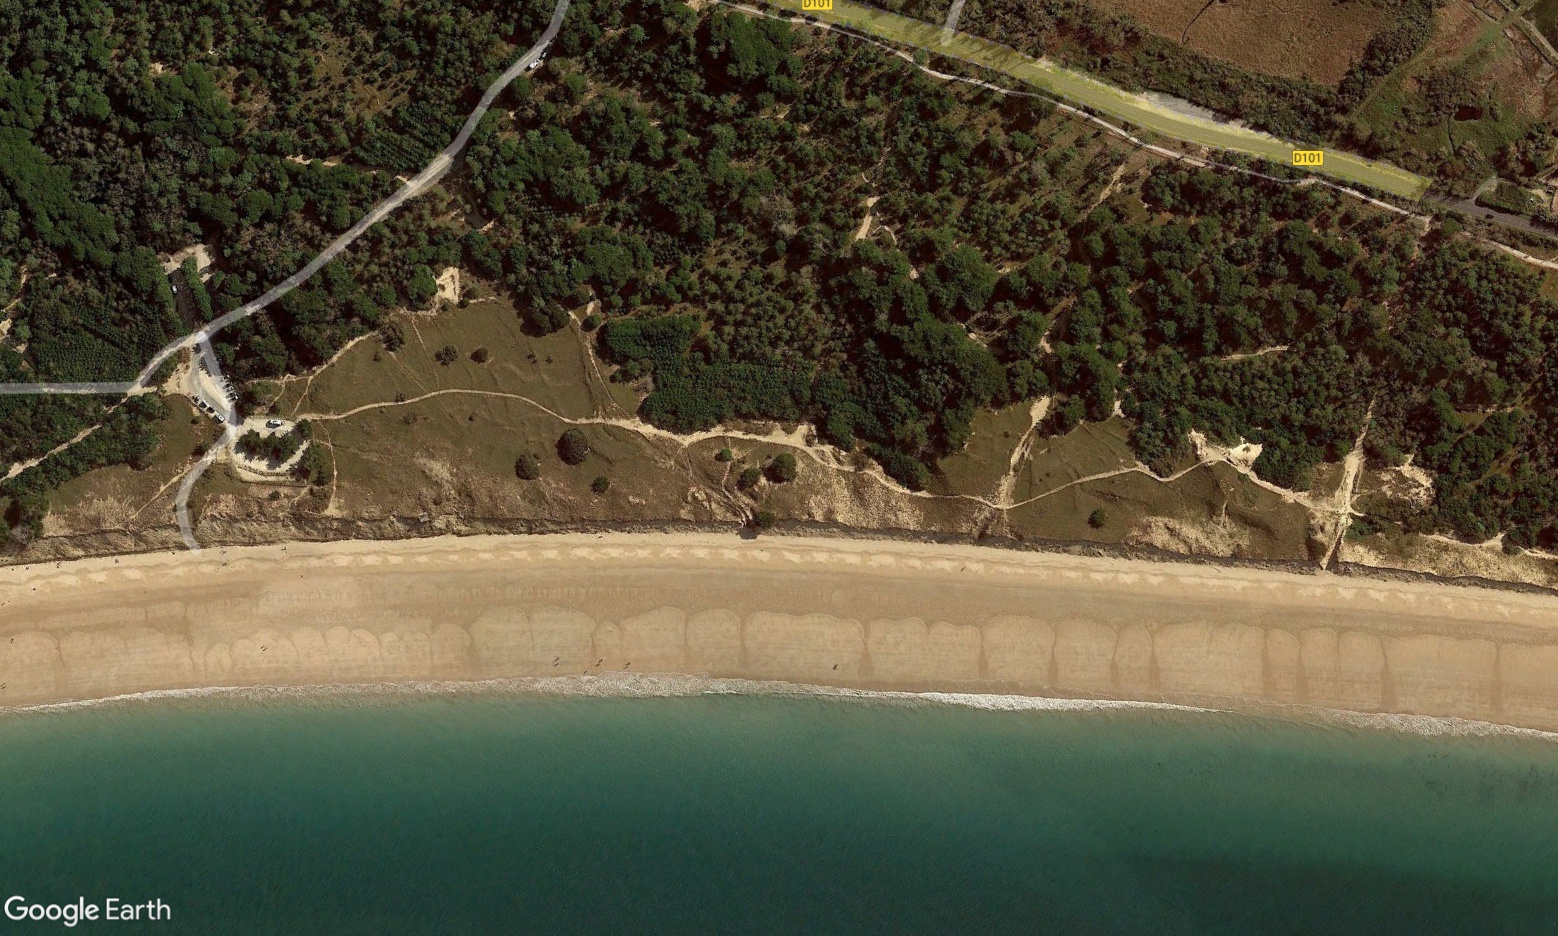
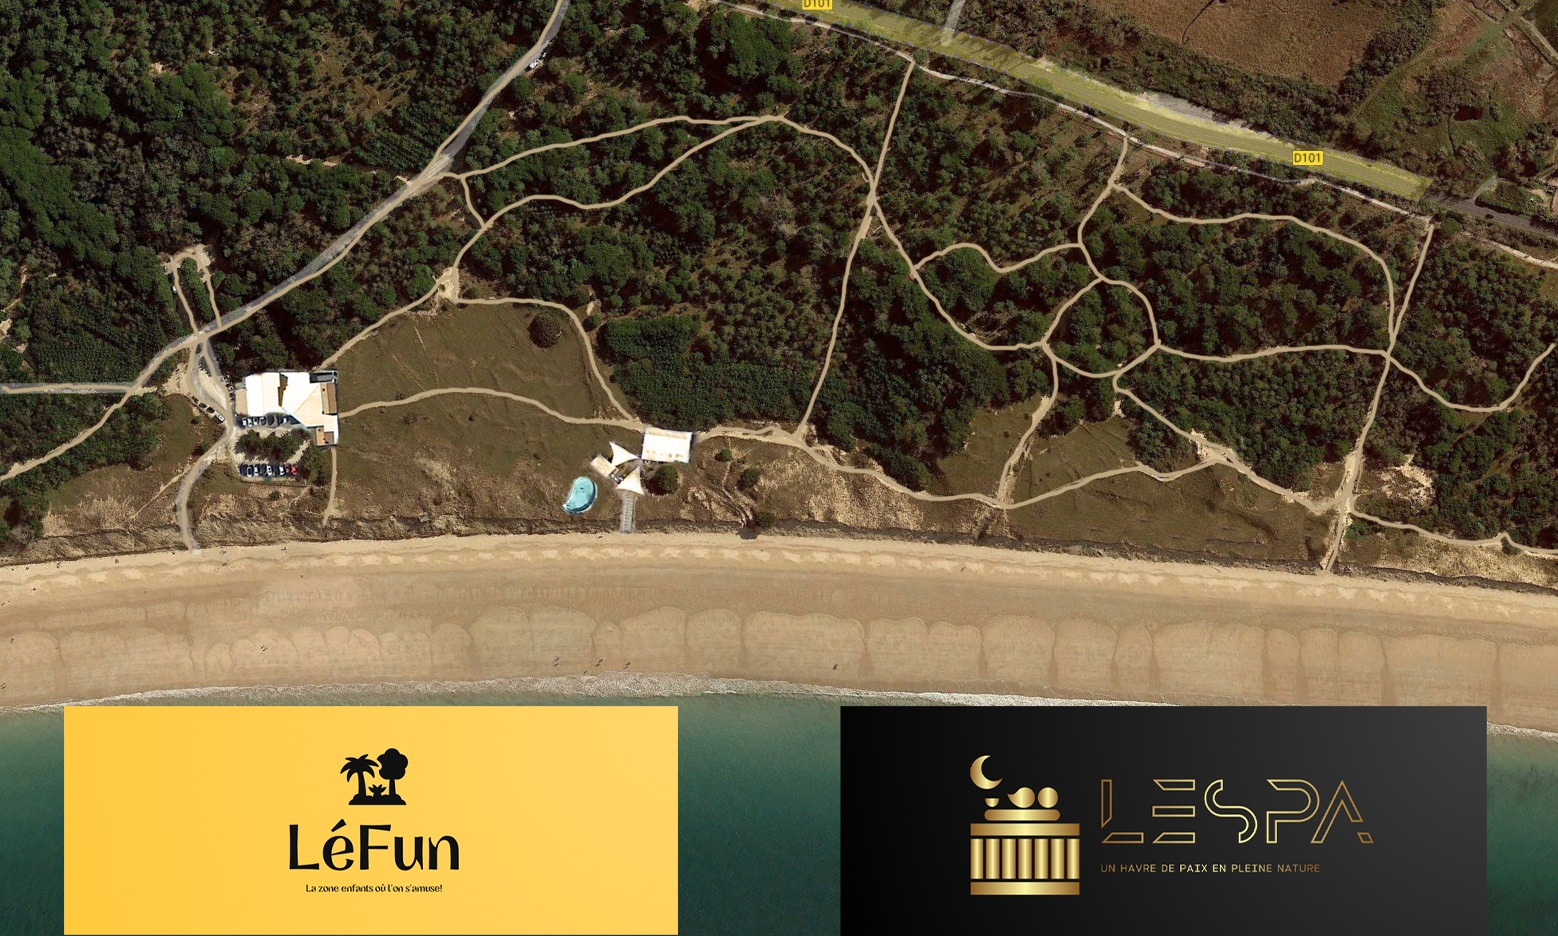
Update

diff --git a/camping/index.html b/camping/index.html
@@ -13,36 +13,36 @@
 	<meta name="copyright" content="Léfou">
 	<meta name="keywords" content="Léfou, Les fous, Camping, Île de Ré">
 
-	<meta property="og:image" content="https://cameo007.github.io/lefou/src/images/icons/android-chrome-192x192.png">
+	<meta property="og:image" content="https://cameo007.github.io/src/images/icons/android-chrome-192x192.png">
 	<meta property="og:title" content="Camping Léfou">
 	<meta property="og:description" content="Bienvenue sur le site web du «Camping Léfou»!">
-	<meta property="og:url" content="https://cameo007.github.io/lefou/camping/">
+	<meta property="og:url" content="https://cameo007.github.io/camping/">
 	
-	<link rel="apple-touch-icon" sizes="180x180" href="/lefou/src/images/icons/apple-touch-icon.png">
-	<link rel="icon" type="image/png" sizes="32x32" href="/lefou/src/images/icons/favicon-32x32.png">
-	<link rel="icon" type="image/png" sizes="16x16" href="/lefou/src/images/icons/favicon-16x16.png">
-	<link rel="manifest" href="/lefou/src/images/icons/site.webmanifest">
-	<link rel="mask-icon" href="/lefou/src/images/icons/safari-pinned-tab.svg" color="#000000">
-	<link rel="shortcut icon" href="/lefou/src/images/icons/favicon.ico">
+	<link rel="apple-touch-icon" sizes="180x180" href="/src/images/icons/apple-touch-icon.png">
+	<link rel="icon" type="image/png" sizes="32x32" href="/src/images/icons/favicon-32x32.png">
+	<link rel="icon" type="image/png" sizes="16x16" href="/src/images/icons/favicon-16x16.png">
+	<link rel="manifest" href="/src/images/icons/site.webmanifest">
+	<link rel="mask-icon" href="/src/images/icons/safari-pinned-tab.svg" color="#000000">
+	<link rel="shortcut icon" href="/src/images/icons/favicon.ico">
 	<meta name="msapplication-TileColor" content="#ffffff">
-	<meta name="msapplication-config" content="/lefou/src/images/icons/browserconfig.xml">
+	<meta name="msapplication-config" content="/src/images/icons/browserconfig.xml">
 	<meta name="theme-color" content="#ffffff">
 	
 	<title>Camping Léfou</title>
 
 	<link href="https://cdn.jsdelivr.net/npm/bootstrap@5.3.0-alpha3/dist/css/bootstrap.min.css" rel="stylesheet" integrity="sha384-KK94CHFLLe+nY2dmCWGMq91rCGa5gtU4mk92HdvYe+M/SXH301p5ILy+dN9+nJOZ" crossorigin="anonymous">
 	<link rel="stylesheet" href="https://cdn.jsdelivr.net/npm/bootstrap-icons@1.10.5/font/bootstrap-icons.css">
-	<link href="/lefou/src/css/style.css" rel="stylesheet">
+	<link href="/src/css/style.css" rel="stylesheet">
 	
 	<script src="https://code.jquery.com/jquery-3.6.0.min.js" defer></script>
 	<script src="https://cdn.jsdelivr.net/npm/bootstrap@5.3.0-alpha3/dist/js/bootstrap.bundle.min.js" integrity="sha384-ENjdO4Dr2bkBIFxQpeoTz1HIcje39Wm4jDKdf19U8gI4ddQ3GYNS7NTKfAdVQSZe" crossorigin="anonymous" defer></script>
-	<script src="/lefou/src/js/script.js" defer></script>
+	<script src="/src/js/script.js" defer></script>
 </head>
 <body>
 	<header>
 	<nav class="navbar navbar-expand-sm navbar-dark">
 		<div class="container-fluid">
-			<a class="navbar-brand" href="/lefou/">Léfou</a>
+			<a class="navbar-brand" href="/">Léfou</a>
 			<button class="navbar-toggler" type="button" data-bs-toggle="collapse" data-bs-target=".navbar-collapse" aria-controls="navbarSupportedContent" aria-expanded="false" aria-label="Toggle navigation">
 				<span class="navbar-toggler-icon"></span>
 			</button>
@@ -94,8 +94,9 @@
 				<h2>Le terrain de camping</h2>
 				<!-- <iframe src="https://www.google.com/maps/embed?pb=!1m14!1m12!1m3!1d1369.175243855255!2d-1.5281328295645074!3d46.248040077984946!2m3!1f0!2f0!3f0!3m2!1i1024!2i768!4f13.1!5e1!3m2!1sde!2sde!4v1683883333068!5m2!1sde!2sde" id="gmaps" loading="lazy" referrerpolicy="no-referrer-when-downgrade"></iframe> -->
 				<a href="https://www.google.com/maps/@46.24804,-1.528133,385m/data=!3m1!1e3" target="_blank">In Google Maps anzeigen</a>
-				<img src="/lefou/src/media/plan.jpg" id="plan">
-				<div class="text-white" id="tooltip">Tooltip</div>
+				<img src="/src/media/plan.jpg" id="plan">
+				<div id="tooltips">
+				</div>
 				<br><br>
 				<!-- Région -->
 				<h2>La région</h2>
@@ -111,49 +112,49 @@
 					</div>
 					<div class="carousel-inner">
 						<div class="carousel-item active">
-							<img src="/lefou/src/media/carousel/1.jpg" class="carousel-image" alt="...">
+							<img src="/src/media/carousel/1.jpg" class="carousel-image" alt="...">
 							<div class="carousel-caption d-none d-md-block text-white">
 								<h5>First slide label</h5>
 								<p>Some representative placeholder content for the first slide.</p>
 							</div>
 						</div>
 						<div class="carousel-item">
-							<img src="/lefou/src/media/carousel/2.jpg" class="carousel-image" alt="...">
+							<img src="/src/media/carousel/2.jpg" class="carousel-image" alt="...">
 							<div class="carousel-caption d-none d-md-block text-white">
 								<h5>Second slide label</h5>
 								<p>Some representative placeholder content for the second slide.</p>
 							</div>
 						</div>
 						<div class="carousel-item">
-							<img src="/lefou/src/media/carousel/3.jpg" class="carousel-image" alt="...">
+							<img src="/src/media/carousel/3.jpg" class="carousel-image" alt="...">
 							<div class="carousel-caption d-none d-md-block text-white">
 								<h5>Third slide label</h5>
 								<p>Some representative placeholder content for the third slide.</p>
 							</div>
 						</div>
 						<div class="carousel-item">
-							<img src="/lefou/src/media/carousel/4.jpg" class="carousel-image" alt="...">
+							<img src="/src/media/carousel/4.jpg" class="carousel-image" alt="...">
 							<div class="carousel-caption d-none d-md-block text-white">
 								<h5>Third slide label</h5>
 								<p>Some representative placeholder content for the third slide.</p>
 							</div>
 						</div>
 						<div class="carousel-item">
-							<img src="/lefou/src/media/carousel/5.jpg" class="carousel-image" alt="...">
+							<img src="/src/media/carousel/5.jpg" class="carousel-image" alt="...">
 							<div class="carousel-caption d-none d-md-block text-white">
 								<h5>Third slide label</h5>
 								<p>Some representative placeholder content for the third slide.</p>
 							</div>
 						</div>
 						<div class="carousel-item">
-							<img src="/lefou/src/media/carousel/6.jpg" class="carousel-image" alt="...">
+							<img src="/src/media/carousel/6.jpg" class="carousel-image" alt="...">
 							<div class="carousel-caption d-none d-md-block text-white">
 								<h5>Third slide label</h5>
 								<p>Some representative placeholder content for the third slide.</p>
 							</div>
 						</div>
 						<div class="carousel-item">
-							<img src="/lefou/src/media/carousel/7.jpg" class="carousel-image" alt="...">
+							<img src="/src/media/carousel/7.jpg" class="carousel-image" alt="...">
 							<div class="carousel-caption d-none d-md-block text-white">
 								<h5>Third slide label</h5>
 								<p>Some representative placeholder content for the third slide.</p>
@@ -196,19 +197,19 @@
 				<div class="row">
   					<div class="col" id="image-julian">
 						<figure class="hoverImage" id="figure-julian">
-							<img src="/lefou/src/media/julian.png" class="about-image">
+							<img src="/src/media/julian.png" class="about-image">
 							<figcaption>Julian</figcaption>
 						</figure>
 					</div>
 					<div class="col" id="image-leon">
 						<figure class="hoverImage" id="figure-leon">
-							<img src="/lefou/src/media/leon.png" class="about-image">
+							<img src="/src/media/leon.png" class="about-image">
 							<figcaption>Leon</figcaption>
 						</figure>
 					</div>
 					<div class="col" id="image-pascal">
 						<figure class="hoverImage" id="figure-pascal">
-							<img src="/lefou/src/media/pascal.png" class="about-image">
+							<img src="/src/media/pascal.png" class="about-image">
 							<figcaption>Pascal</figcaption>
 						</figure>
 					</div>
@@ -291,7 +292,13 @@
 	<script>
 		window.addEventListener("load", function () {
 			applyColorMode();
+			$(window).on('resize', function(){
+				$("#tooltips").html("");
+				planTooltip();
+			});
 			planTooltip();
+			const tooltipTriggerList = document.querySelectorAll('[data-bs-toggle="tooltip"]')
+			const tooltipList = [...tooltipTriggerList].map(tooltipTriggerEl => new bootstrap.Tooltip(tooltipTriggerEl))
 		});
 	</script>
 </body>

diff --git a/src/js/script.js b/src/js/script.js
@@ -73,21 +73,20 @@ $('.collapse').each(function() {
 });
 
 function planTooltip() {
-	const plan = document.querySelector('#plan');
-	const tooltip = document.querySelector('#tooltip');
-	
-	plan.addEventListener('mouseover', () => {
-		tooltip.style.display = 'block';
-	});
-	plan.addEventListener('mouseout', () => {
-		tooltip.style.display = 'none';
-	});
+	const plan = $("#plan");
+	const tooltip = $("#tooltip");
+	const scaleWidth = 1558 / plan.width();
+	const scaleHeight = 936 / plan.height();
+	console.log(scaleWidth);
 
-	plan.addEventListener('mousemove', (e) => {
-		console.log(e.pageY);
-		Object.assign(tooltip.style, {
-			left: `${e.pageX}px`,
-			top: `${e.pageY - tooltip.offsetHeight - 10}px`,
-		});
+	const points = [
+		{"x": 250, "y": 400, "title": "Parkplatz", "color": "white"},
+		{"x": 250, "y": 340, "title": "Pott", "color": "black"},
+		{"x": 560, "y": 430, "title": "Pool", "color": "white"}
+	];
+
+	$.each(points, function(index, point) {
+		console.log(point["x"] / scaleWidth);
+		$("#tooltips").append(`<i class="bi bi-geo-alt-fill tooltip-button text-${point["color"]}" style="left: ${plan.offset()["left"] + point["x"] / scaleHeight}px;top: ${plan.offset()["top"] + point["y"] / scaleWidth}px;font-size: 1.7em;" data-bs-toggle="tooltip" data-bs-title="${point["title"]}"></i>`)
 	});
 }

diff --git a/src/css/style.css b/src/css/style.css
@@ -1,6 +1,6 @@
 @font-face {
 	font-family: Brizeux-Normal;
-	src: url("/lefou/src/fonts/brizeux_normal.ttf");
+	src: url("/src/fonts/brizeux_normal.ttf");
 	font-display: swap;
 }
 
@@ -58,9 +58,8 @@ video, #plan {
 	height: 20%;
 }
 
-#tooltip {
+.tooltip-button {
 	position: absolute;
-  display: none;
 }
 
 
